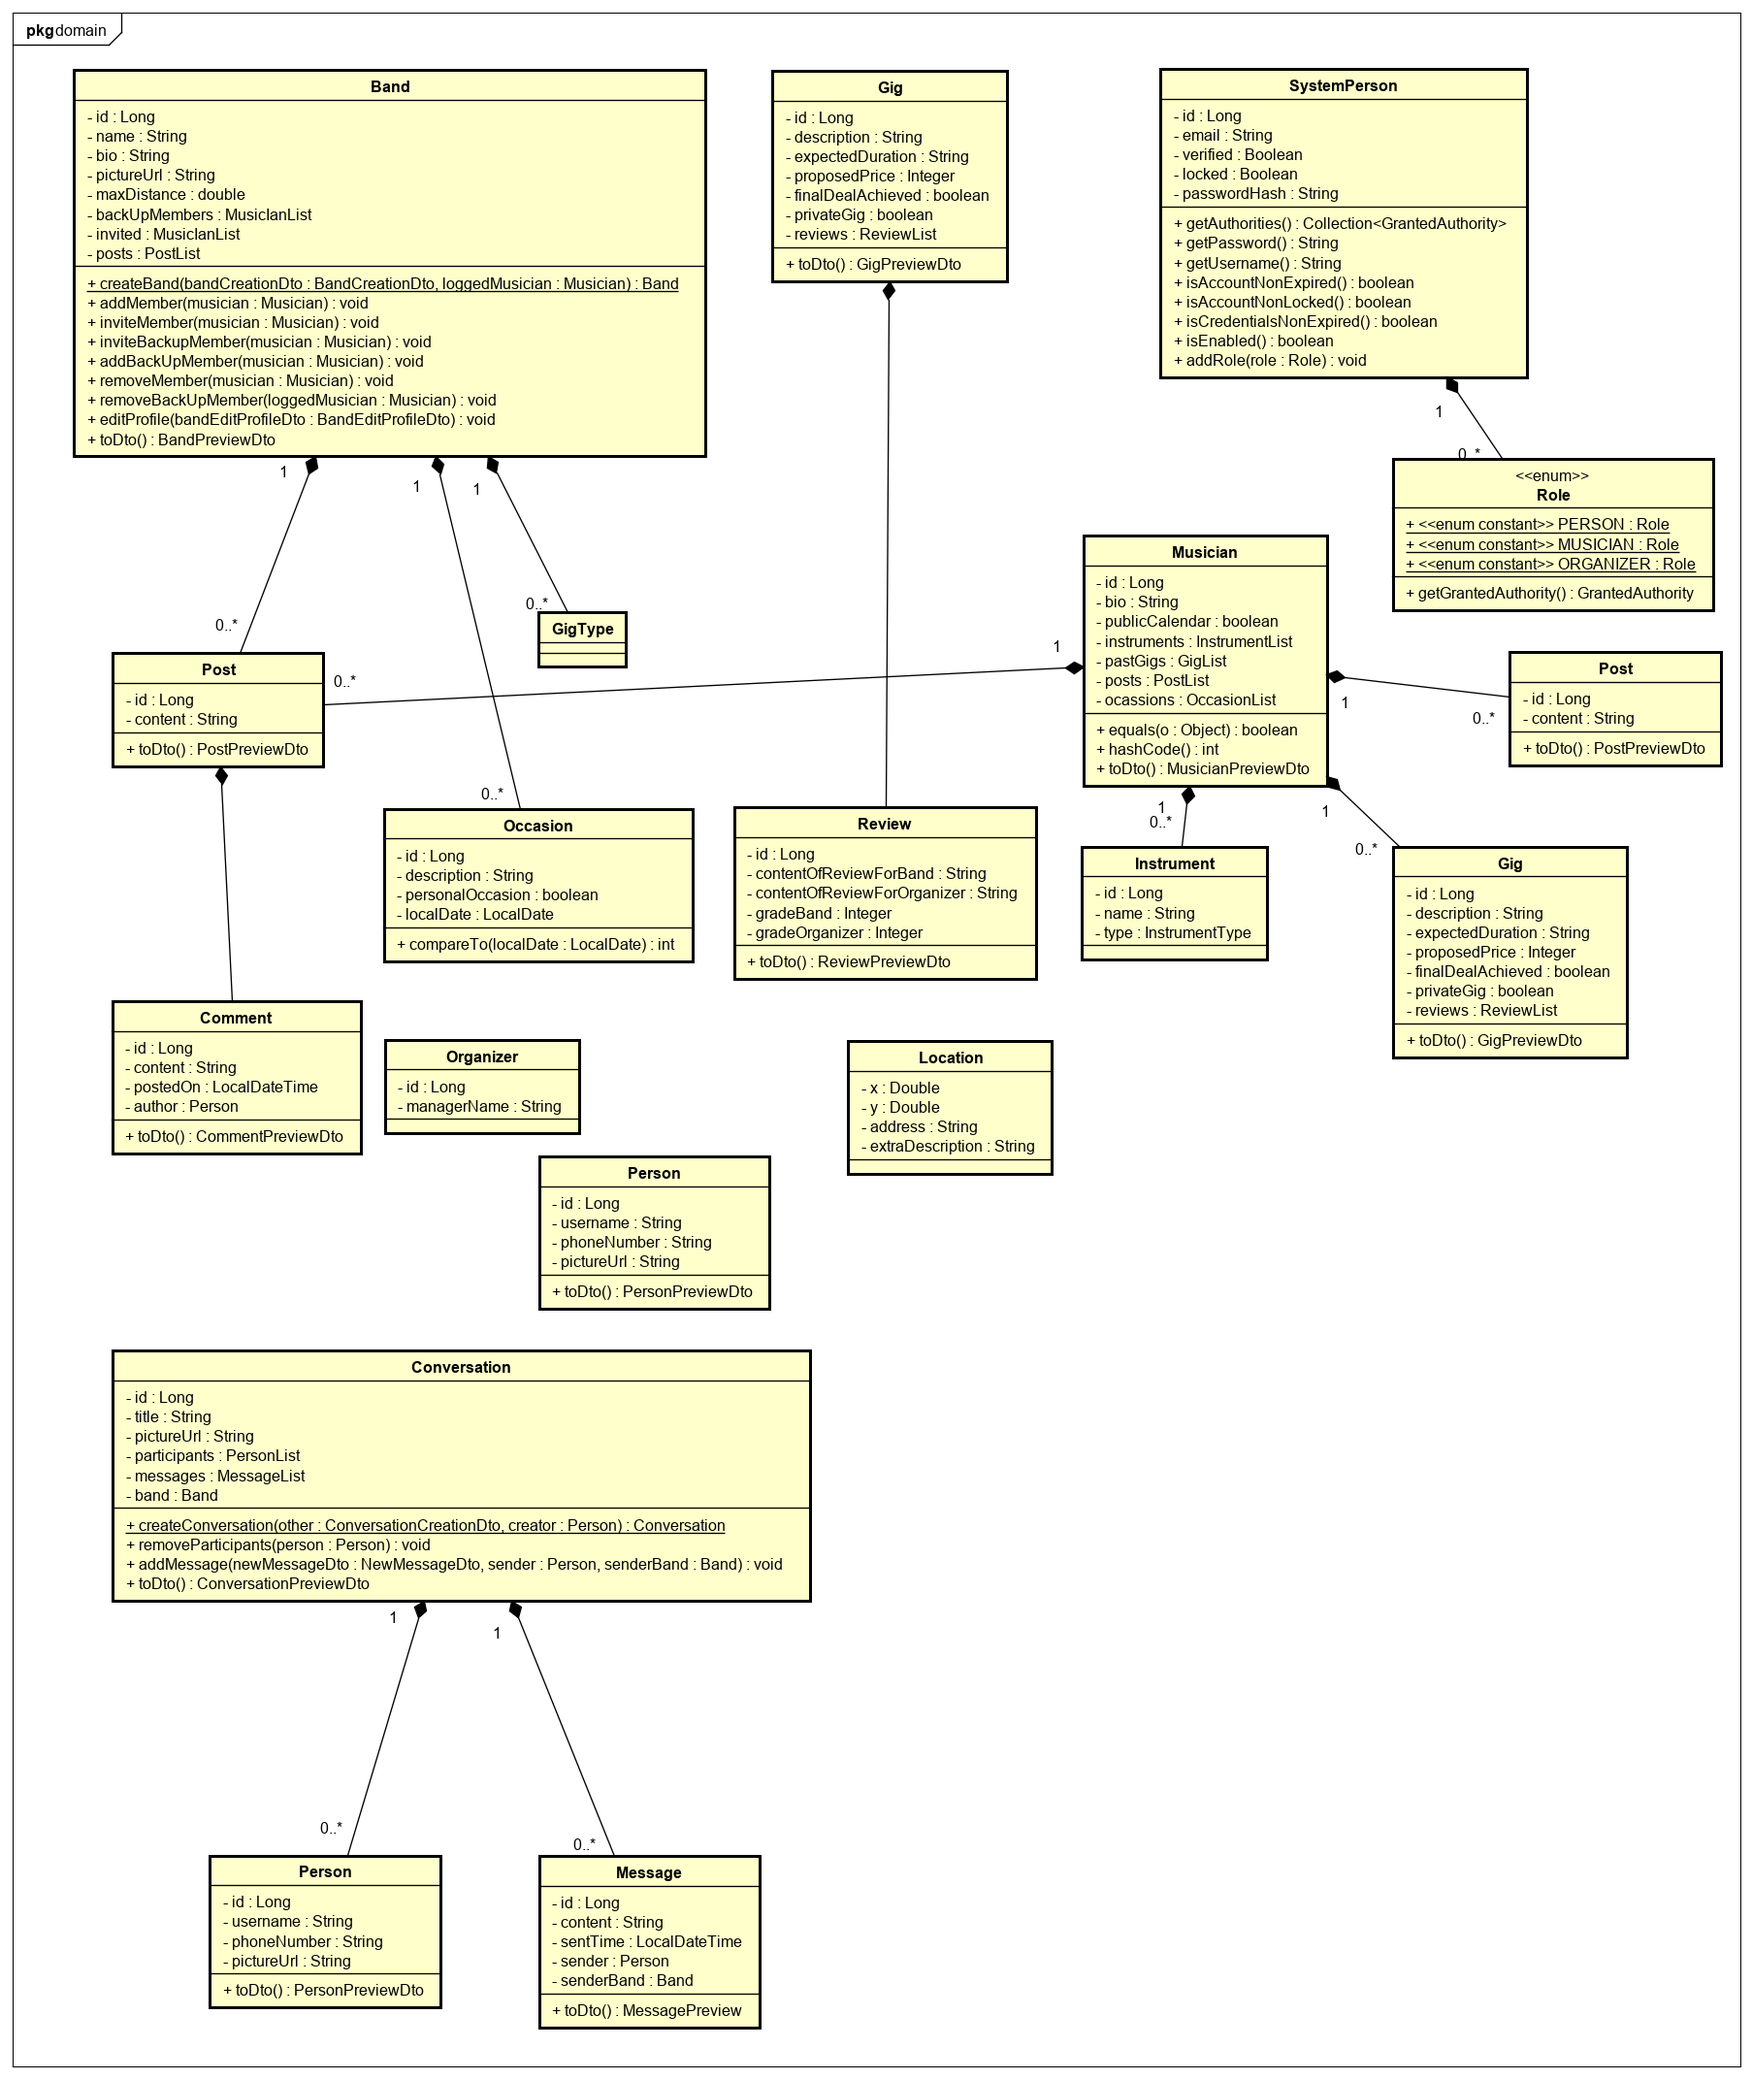
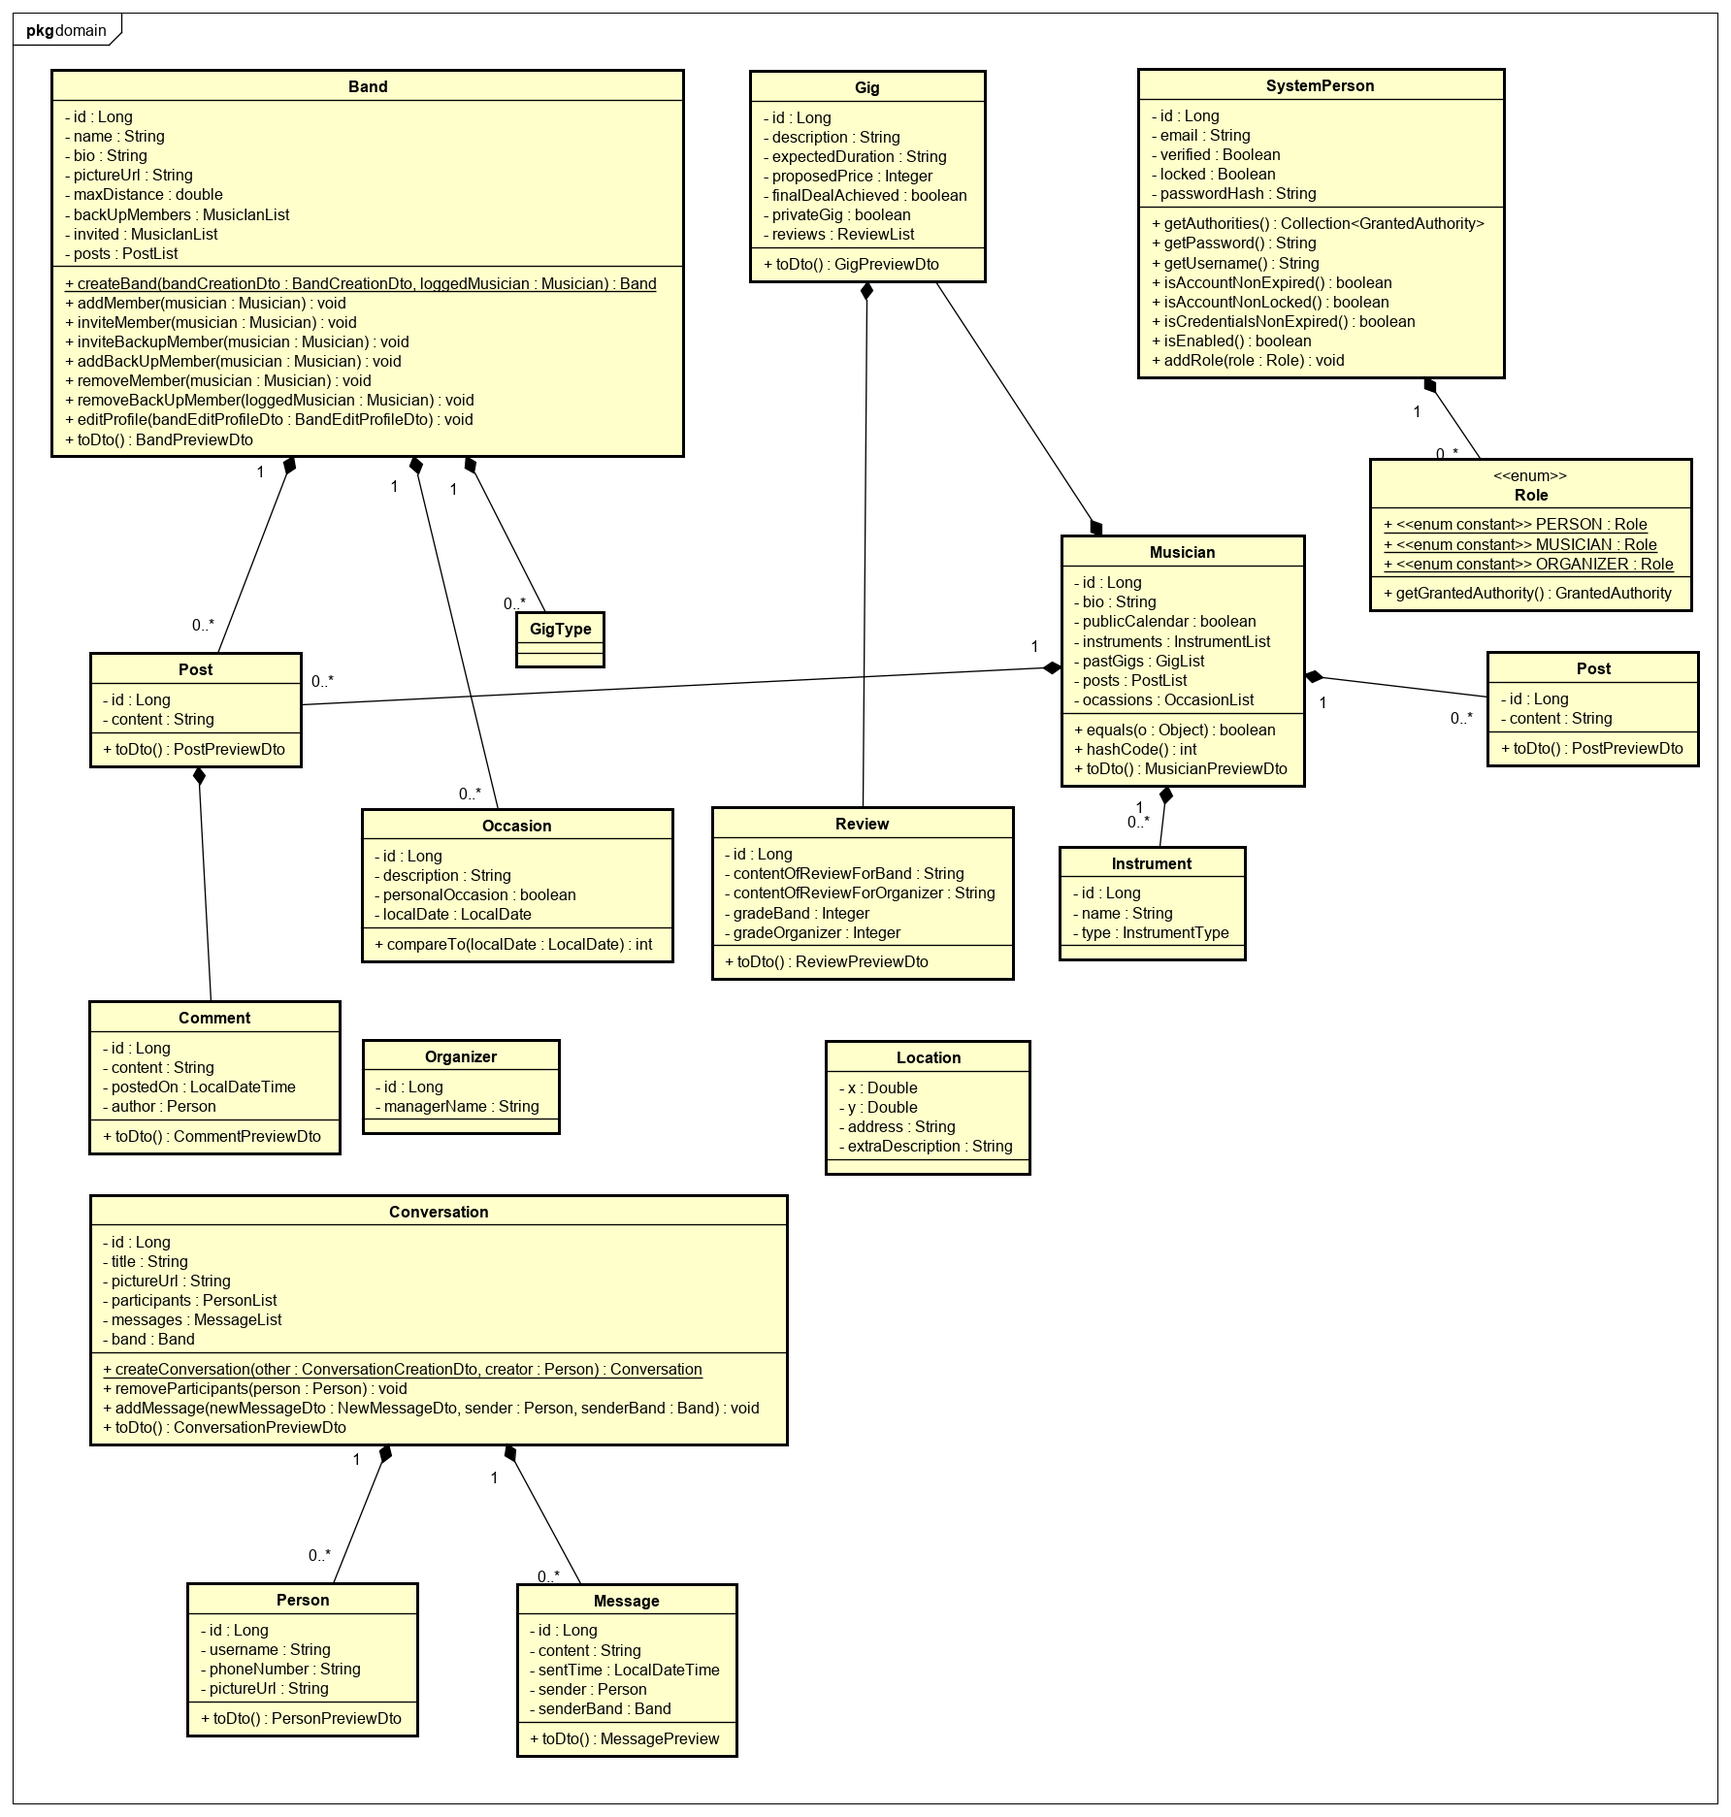
added caption for domain class diagram

Changed region(s): [[0.0, 0.0, 1.0, 1.0], [0.4933, 0.3097, 0.5241, 0.3406]]

diff --git a/dokumentacija/Arhitektura.tex b/dokumentacija/Arhitektura.tex
@@ -587,6 +587,11 @@ Ovaj entitet sadrži podatke o kreiranom bendu.  Sadrži atribute: id, opis, dat
 			\label{fig:service}
 		\end{figure}
 	
+	
+	Slika 4.6 prikazuje razrede koji predstavljaju enitete enitetsko -  relacijskog modela u bazi podataka. Razred Band predstavlja jedan Band kojim upravlja glazbenik koji je postavljen za voditelja benda. Razred SystemPerson predstavlja razred u kojem su objedinjeni svi sustavski podaci vezani za osobu kao što su: email i id. Gig predstavlja jedan nastup nekoga benda koji organizira određeni organizator i pri tome enkapsulira sve logističke informacije o tome nastupu. Razred Conversation omogućuje komunikaciju između aktora glazbenika i organizatora.
+	Glazbenik je opisan razredom Musician dok je organizator opisan razredom Organizer. Razredi Post, Comment, Location, Instrument, Message služe za enkapsulaciju informacija kako bi dopunili razrede poput Band, Conversation i Musician. Kao enumeracije uzeti su GigType i Role.
+	
+	
 		\begin{figure}[H]
 			\begin{center}
 				\includegraphics[width=17cm]{slike/domena.PNG}
